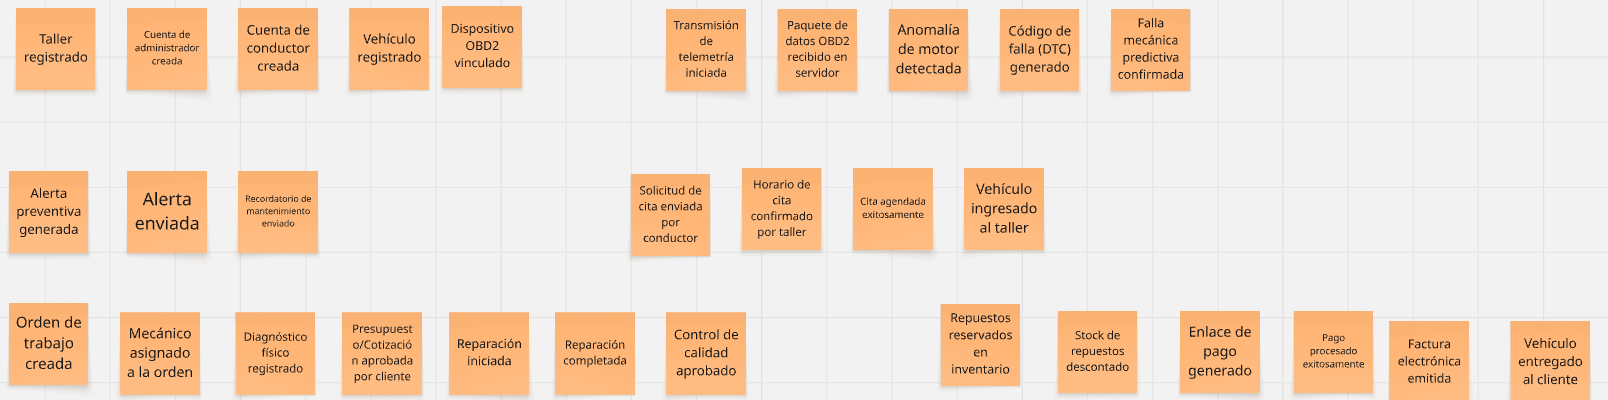
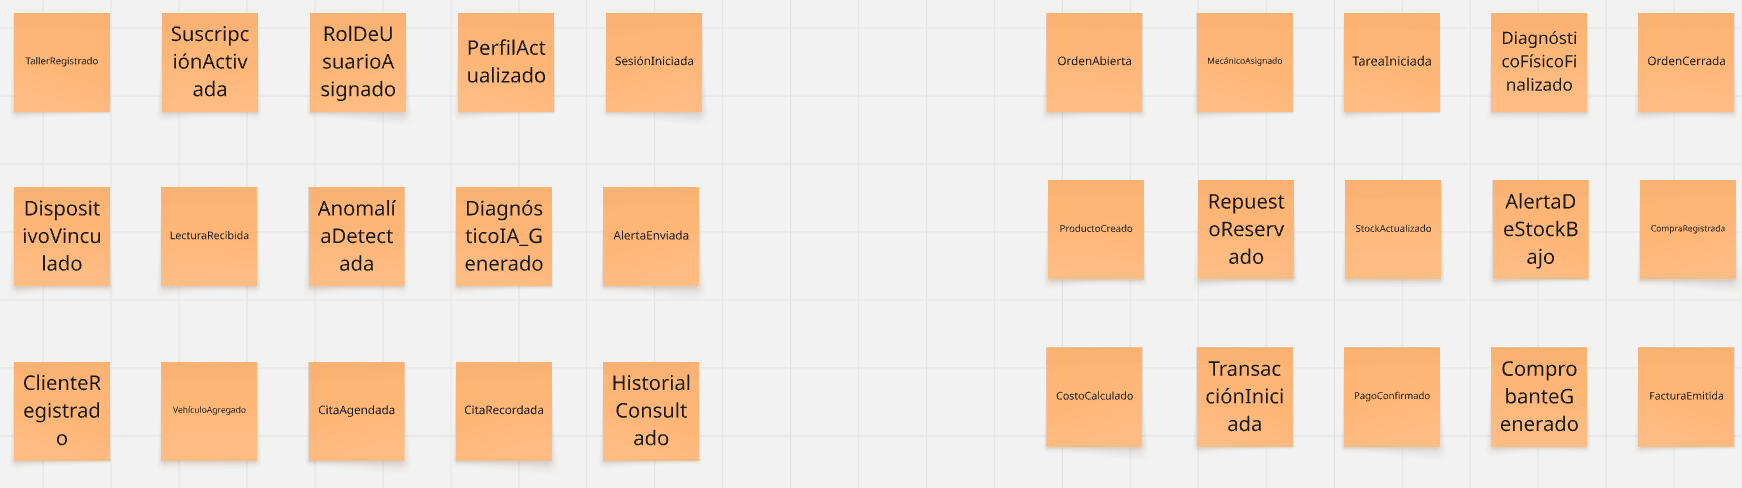
fix(docs): update event storming to match bounded contexts

diff --git a/report/31-domain-driven-software-architecture.md b/report/31-domain-driven-software-architecture.md
@@ -8,7 +8,7 @@
 
 **Paso 1: Collect Domain Events**
 
-&emsp;&emsp;&emsp;&emsp;Se identificaron y colocaron secuencialmente todos los eventos de dominio clave (post-its naranjas) que representan cambios de estado inmutables en el sistema. Se mapearon 30 eventos escritos en tiempo pasado, abarcando desde el *onboarding* inicial ("Taller registrado", "Dispositivo OBD2 vinculado"), pasando por el flujo predictivo ("Anomalía de motor detectada"), el ciclo operativo ("Orden de trabajo creada", "Reparación completada"), hasta el cierre financiero ("Pago procesado exitosamente", "Factura electrónica emitida").
+&emsp;&emsp;&emsp;&emsp;Se identificaron y colocaron secuencialmente todos los eventos de dominio clave (post-its naranjas) que representan cambios de estado inmutables en el sistema. Se mapearon eventos escritos en tiempo pasado, abarcando desde el registro inicial del taller (`TallerRegistrado`), pasando por la ingesta de telemetría (`LecturaRecibida`) y el flujo operativo (`OrdenAbierta`), hasta el cierre financiero (`FacturaEmitida`).
 
 **Figura X**
 
@@ -18,7 +18,7 @@
 
 **Paso 2: Timelines y Bounded Contexts**
 
-&emsp;&emsp;&emsp;&emsp;Una vez identificados todos los eventos, los organizamos en una línea de tiempo cronológica y los agrupamos en módulos delimitados (*frames*) para establecer nuestros sub-dominios. Identificamos 6 flujos claros: la gestión de usuarios y perfiles, la predicción de fallas mediante telemetría IoT, el envío de alertas de fidelización (CRM), el agendamiento de citas, la operación mecánica interna (ERP Core) y finalmente, el control de inventario y pagos.
+&emsp;&emsp;&emsp;&emsp;Una vez identificados todos los eventos, los organizamos en una línea de tiempo cronológica y los agrupamos en módulos delimitados (*frames*) para establecer nuestros sub-dominios. Identificamos 6 flujos claros alineados al diseño de software: Core (Identidad y Multi-tenencia), IoT (Hardware y Telemetría), Fleet (Gestión de Flota), Operations (Órdenes de Trabajo), Inventory (Almacén) y Billing (Facturación y Pagos).
 
 **Figura X**
 
@@ -28,85 +28,103 @@
 
 **Paso 3: Commands y Actors**
 
-&emsp;&emsp;&emsp;&emsp;En este paso, respondimos a la pregunta "¿Quién hace qué?". Agregamos los actores (post-its amarillos pequeños) como el Dueño, Conductor, Mecánico o Administrador, junto con los comandos (post-its azules en infinitivo) que ellos ejecutan para detonar los eventos. Por ejemplo: el actor "Conductor" ejecuta el comando "Solicitar Revisión", lo que genera el evento "Solicitud de cita recibida". Los comandos ejecutados por el sistema, como "Ingestar Datos", se colocaron sin actor humano.
+&emsp;&emsp;&emsp;&emsp;En este paso, respondimos a la pregunta "¿Quién hace qué?". Agregamos los actores (post-its amarillos pequeños) como el Dueño, Conductor, Mecánico o Almacenero, junto con los comandos (post-its azules en infinitivo) que ellos ejecutan para detonar los eventos. Debido a la extensión del flujo técnico, este se visualiza en dos secciones.
 
 **Figura X**
 
-*Commands y Actors*
+*Commands y Actors - Parte 1*
 
-![](assets/Commands-Actors.png "Commands y Actors")
+![](assets/Commands-Actors-1.png "Commands y Actors Parte 1")
+
+**Figura X**
+
+*Commands y Actors - Parte 2*
+
+![](assets/Commands-Actors-2.png "Commands y Actors Parte 2")
 
 **Paso 4: Policies (Reglas de Negocio)**
 
-&emsp;&emsp;&emsp;&emsp;Incorporamos las políticas del sistema (post-its lilas/morados), que representan las automatizaciones y reglas de negocio reactivas que conectan distintos contextos. Estas se redactan bajo la premisa "Siempre que pase X, hacer Y". Por ejemplo: *"Siempre que la IA confirme una falla predictiva, generar alerta urgente"*, o *"Siempre que se complete la reparación, descontar automáticamente los repuestos usados del stock"*.
+&emsp;&emsp;&emsp;&emsp;Incorporamos las políticas del sistema (post-its lilas/morados), que representan las automatizaciones y reglas de negocio reactivas que conectan distintos contextos. Estas se redactan bajo la premisa "Siempre que pase X, hacer Y". Por ejemplo: *"Siempre que el sistema IoT detecte una anomalía, notificar al conductor para agendar una cita de mantenimiento"*.
 
 **Figura X**
 
-*Policies*
+*Policies - Parte 1*
 
-![](assets/Policies.png "Policies")
+![](assets/Policies-1.png "Policies Parte 1")
+
+**Figura X**
+
+*Policies - Parte 2*
+
+![](assets/Policies-2.png "Policies Parte 2")
 
 **Paso 5: Pain Points, External Systems y Read Models**
 
-&emsp;&emsp;&emsp;&emsp;Añadimos las capas de interfaz de usuario, dependencias de terceros y análisis de riesgos. Colocamos los modelos de lectura (post-its verdes), que son las pantallas que el usuario debe visualizar antes de actuar (ej. "Dashboard de Agenda" o "Resumen de Cobro"). Además, integramos los sistemas externos (post-its rosados) como el Hardware OBD2, el Motor IA Andeva, la Pasarela Niubiz/Stripe y la API SUNAT. Finalmente, añadimos los "Pain Points" (post-its rojos rotados) con preguntas críticas para la arquitectura, tales como: *¿Qué pasa si el OBD2 pierde conexión a internet?* o *¿Qué ocurre si el cliente rechaza el presupuesto?*.
+&emsp;&emsp;&emsp;&emsp;Añadimos las capas de interfaz de usuario, dependencias de terceros y análisis de riesgos. Colocamos los modelos de lectura (post-its verdes), que son las pantallas necesarias para la toma de decisiones. Además, integramos los sistemas externos (post-its rosados) como el Hardware OBD2, el Motor IA Andeva, la Pasarela de Pagos y la API de SUNAT.
 
 **Figura X**
 
-*Read Models y External Systems*
+*Read Models y External Systems - Parte 1*
 
-![](assets/Read-Models.png "Read Models y External Systems")
+![](assets/Read-Models-External-Systems-1.png "Read Models y External Systems Parte 1")
+
+**Figura X**
+
+*Read Models y External Systems - Parte 2*
+
+![](assets/Read-Models-External-Systems-2.png "Read Models y External Systems Parte 2")
 
 **Paso 6: Detalle de Bounded Contexts y Aggregates**
 
 &emsp;&emsp;&emsp;&emsp;En la fase final, procedimos a identificar las entidades raíz o "Agregados" (post-its amarillos grandes) para cada contexto delimitado, asegurando la consistencia transaccional de cada módulo. A continuación, se detalla cada uno de los 6 Bounded Contexts definidos:
 
-&emsp;&emsp;&emsp;&emsp;**a) Usuarios:** Este contexto gestiona la identidad y el acceso al sistema. Contiene los agregados `PerfilTaller`, `PerfilConductor` y `VehiculoCliente`, encargados de vincular la identidad digital de las personas con los registros físicos del taller y los vehículos.
+&emsp;&emsp;&emsp;&emsp;**a) Core:** Este contexto gestiona la identidad y el acceso multi-inquilino. Contiene los agregados `Tenant`, `Profile` y `Subscription`, encargados de vincular la identidad digital con la suscripción comercial del taller.
 
 **Figura X**
 
-*Design-Level: Contexto de Usuarios*
+*Design-Level: Contexto de Core*
 
-![](assets/Design-Level-Usuarios.png "Contexto de Usuarios")
+![](assets/Design-Level-Core.png "Contexto de Core")
 
-&emsp;&emsp;&emsp;&emsp;**b) Telemetría:** Representa el núcleo tecnológico predictivo. Se encarga de la ingesta masiva de datos provenientes del hardware OBD2 en el agregado `FlujoTelemetria` y utiliza el agregado `AlertaDiagnostico` para procesar y confirmar las fallas mecánicas detectadas.
-
-**Figura X**
-
-*Design-Level: Contexto de Telemetría*
-
-![](assets/Design-Level-Telemetria.png "Contexto de Telemetría")
-
-&emsp;&emsp;&emsp;&emsp;**c) Alertas:** Este contexto controla la comunicación proactiva y automatizada con el cliente. Gestiona las políticas que transforman los diagnósticos técnicos en notificaciones enviadas a la aplicación móvil para fidelizar al conductor.
+&emsp;&emsp;&emsp;&emsp;**b) IoT:** Representa el núcleo tecnológico predictivo. Se encarga de la ingesta de datos en el agregado `TelemetryRecord` y utiliza el agregado `Device` para gestionar el hardware vinculado a los vehículos.
 
 **Figura X**
 
-*Design-Level: Contexto de Alertas*
+*Design-Level: Contexto de IoT*
 
-![](assets/Design-Level-Alertas.png "Contexto de Alertas")
+![](assets/Design-Level-IoT.png "Contexto de IoT")
 
-&emsp;&emsp;&emsp;&emsp;**d) Citas:** Administra el embudo de recepción del taller. Utiliza el agregado `CitaVehicular` para coordinar de forma síncrona la disponibilidad física de las estaciones de trabajo con las necesidades de mantenimiento preventivo de los clientes.
-
-**Figura X**
-
-*Design-Level: Contexto de Citas*
-
-![](assets/Design-Level-Citas.png "Contexto de Citas")
-
-&emsp;&emsp;&emsp;&emsp;**e) Taller:** Es el corazón operativo del sistema. Todo el flujo gira en torno al agregado central `OrdenDeTrabajo`, el cual controla el ciclo de vida de la reparación, desde la asignación del mecánico hasta el diagnóstico físico y la culminación del servicio.
+&emsp;&emsp;&emsp;&emsp;**c) Fleet:** Administra la relación con el cliente y su flota. Utiliza los agregados `Customer`, `Vehicle` y `Appointment` para coordinar las necesidades de mantenimiento preventivo.
 
 **Figura X**
 
-*Design-Level: Contexto de Taller*
+*Design-Level: Contexto de Fleet*
 
-![](assets/Design-Level-Taller.png "Contexto de Taller")
+![](assets/Design-Level-Fleet.png "Contexto de Fleet")
 
-&emsp;&emsp;&emsp;&emsp;**f) Pagos y Stock:** Maneja la integridad de los recursos y el cierre financiero. Agrupa el agregado `ItemInventario` para el descuento automático de repuestos usados, y los agregados `TransaccionPago` junto con `FacturaElectronica` para procesar el cobro y emitir comprobantes legales.
+&emsp;&emsp;&emsp;&emsp;**d) Operations:** Es el corazón operativo del sistema. Todo el flujo gira en torno al agregado central `WorkOrder` y las tareas técnicas `MaintenanceTask`, controlando el ciclo de vida de la reparación.
 
 **Figura X**
 
-*Design-Level: Contexto de Pagos y Stock*
+*Design-Level: Contexto de Operations*
 
-![](assets/Design-Level-Pagos.png "Contexto de Pagos y Stock")
+![](assets/Design-Level-Operations.png "Contexto de Operations")
+
+&emsp;&emsp;&emsp;&emsp;**e) Inventory:** Gestiona la integridad de los suministros del taller. Agrupa los agregados `Product` y `WarehouseItem` para el descuento automático de repuestos e insumos usados.
+
+**Figura X**
+
+*Design-Level: Contexto de Inventory*
+
+![](assets/Design-Level-Inventory.png "Contexto de Inventory")
+
+&emsp;&emsp;&emsp;&emsp;**f) Billing:** Maneja el cierre financiero y legal. Utiliza los agregados `PaymentTransaction` e `Invoice` para procesar cobros y emitir comprobantes electrónicos ante las entidades tributarias.
+
+**Figura X**
+
+*Design-Level: Contexto de Billing*
+
+![](assets/Design-Level-Billing.png "Contexto de Billing")
 
 ### 4.6.2.&emsp;&emsp;*Software Architecture Context Diagram* {#cap-4-6-2}
 
